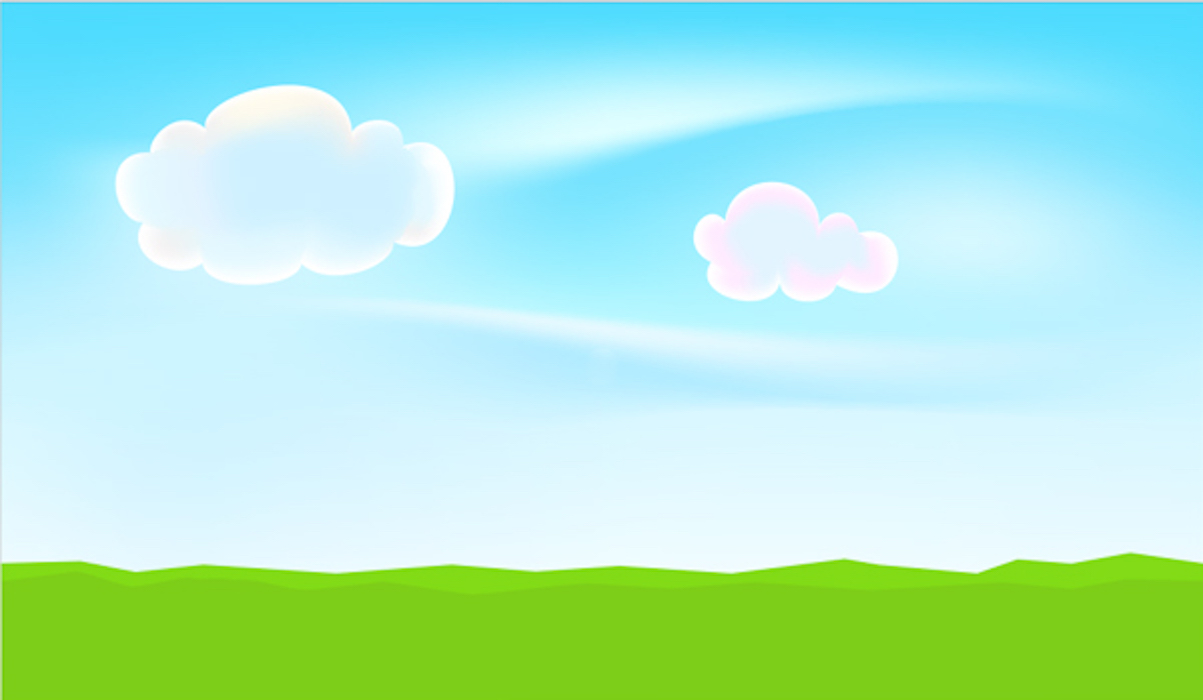
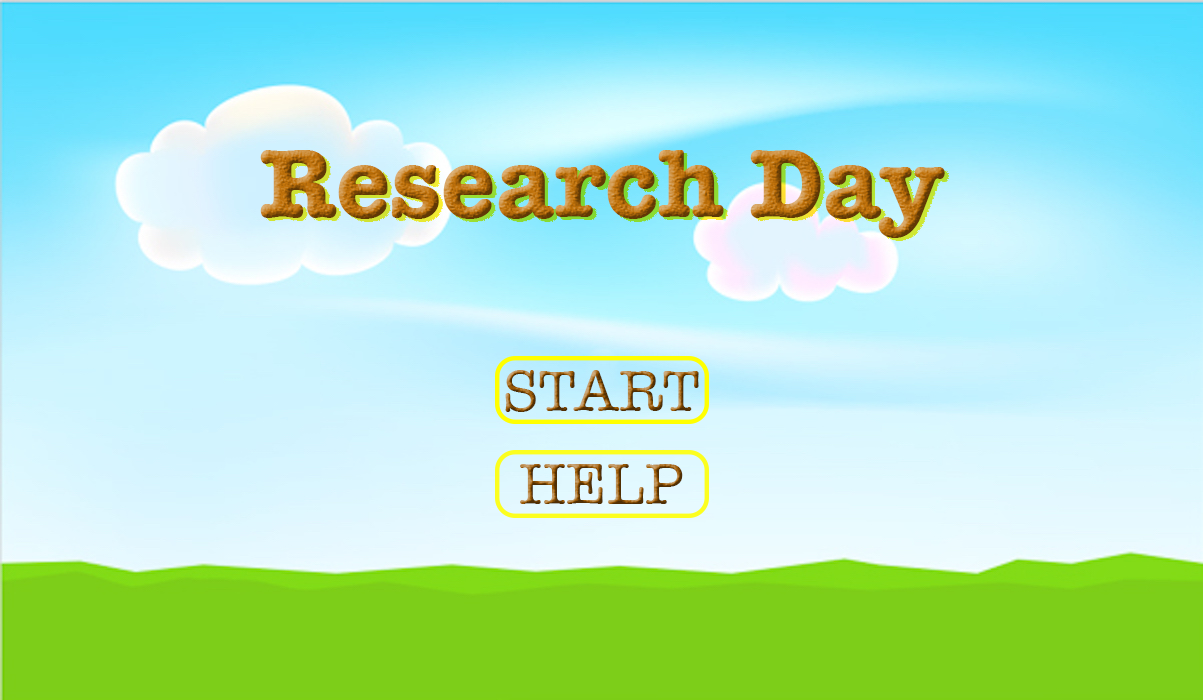
finish design menu and askforhelp page

Changed region(s): [[0.2153, 0.21, 0.7997, 0.36], [0.3998, 0.51, 0.6151, 0.75]]

diff --git a/project/src/cisc275_project/Model/GameModel.java b/project/src/cisc275_project/Model/GameModel.java
@@ -4,12 +4,13 @@ public class GameModel {
 	private Animals blueFishList;
 	private Animals blueCrabList;
 	private Animals summerFlounderList;
+	private Animals bassFishList;
 	private int score;
 	private int time;
 	private Net net;
 	private QuizList quiz;
 	private boolean quizable= true;
-	public enum STATE{MENU,GAME,QUIZ,EXPLAN,END}
+	public enum STATE{MENU,ASKHELP,GAME,QUIZ,EXPLAN,END}
 	private STATE state;
 
 	//Constructor
@@ -17,6 +18,7 @@ public class GameModel {
 		this.blueFishList = BlueFish.createBFList();
 		this.blueCrabList = BlueCrab.createBCList();
 		this.summerFlounderList = SummerFlounder.createSFList();
+		this.bassFishList = BassFish.createBFList();
 		this.net = Net.createNet();
 		this.quiz = QuizList.createQuizList();
 		this.score = 0;
@@ -30,9 +32,12 @@ public class GameModel {
 	public Animals getBlueCrabList() {
 		return blueCrabList;
 	}
-
 	public Animals getSummerFlounderList() {
 		return summerFlounderList;
+	}
+
+	public Animals getBassFishList() {
+		return bassFishList;
 	}
 
 	public int getScore() {
@@ -65,11 +70,17 @@ public class GameModel {
 		}
 
 		else if(getGameState() == STATE.MENU){
-			if(x<795 && x>495 && y<380 && y>280){
+			boolean startButton =x<705 && x>495 && y<425 && y>355;
+				if(startButton){
+				setState(STATE.ASKHELP);
+			}
+		}
+		else if(getGameState() == STATE.ASKHELP){
+			boolean ofCourseButton = x<600 && x>420 && y<550 && y>500;
+			if(ofCourseButton){
 				setState(STATE.GAME);
 			}
 		}
-
 		else if(getGameState() == STATE.QUIZ){
 			boolean option1 = (x>400 && x<500 && y > 450 && y<500);
 			boolean option2 = (x>700 && x<800 && y > 450 && y<500);
@@ -104,7 +115,8 @@ public class GameModel {
 	 */
 
 	public boolean hasCollision (){
-		return blueCrabList.hasCollision() || blueFishList.hasCollision()|| summerFlounderList.hasCollision();
+		return blueCrabList.hasCollision() || blueFishList.hasCollision()||
+				summerFlounderList.hasCollision()||bassFishList.hasCollision();
 	}
 
 	/**
@@ -142,6 +154,7 @@ public class GameModel {
 			blueFishList.update(net);
 			blueCrabList.update(net);
 			summerFlounderList.update(net);
+			bassFishList.update(net);
 			net.update();
 			timeUpdate();
 			scoreUpdate();

diff --git a/project/src/cisc275_project/View/AskHelpPanel.java b/project/src/cisc275_project/View/AskHelpPanel.java
@@ -1,12 +1,15 @@
 package project.src.cisc275_project.View;
 
+import project.src.cisc275_project.Model.GameModel;
+
 import javax.swing.*;
 import java.awt.*;
 
-public class MenuPanel extends JPanel {
-    public static Rectangle startButton = new Rectangle(495,355,210,70);
+public class AskHelpPanel extends JPanel {
+    public static Rectangle startButton = new Rectangle(420,500,180,50);
+    //static GameModel model = model;
 
-    public MenuPanel(){
+    public AskHelpPanel(){
         JPanel menuPanel = new JPanel();
         menuPanel.setBackground(Color.black);
         add(menuPanel);
@@ -14,11 +17,9 @@ public class MenuPanel extends JPanel {
 
     public void paint(Graphics g){
         Graphics2D g2d = (Graphics2D) g;
-        Font fnt = new Font("Garamond", Font.BOLD,60);
-        g2d.setFont(fnt);
         g2d.setColor(Color.black);
-        g2d.drawImage(ImageLoader.startBackground,0,0,this);
-        g2d.setColor(Color.white);
+        g2d.drawImage(ImageLoader.askBackground,0,0,this);
+        g2d.setColor(Color.RED);
         g2d.draw(startButton);
     }
 }

diff --git a/project/src/cisc275_project/Model/BassFish.java b/project/src/cisc275_project/Model/BassFish.java
@@ -1,0 +1,44 @@
+package project.src.cisc275_project.Model;
+
+/**
+ @author Chu Qiao
+ @author Mingkun Chen
+ @author Yihan Ye
+ */
+
+import java.util.ArrayList;
+import java.util.List;
+
+/**
+ * this is the class for blue fish
+ */
+public class BassFish extends Animal {
+    /**
+     * Constructor for blueFish
+     * @param xPos the x position of fish
+     * @param yPos the y position of fish
+     */
+    public BassFish(int xPos, int yPos) {
+        super("blue_fish", xPos, yPos, 2, 1, 200,400,0,900);
+    }
+    //create BlueFishList
+    /**
+     * Create an animal list with 3 blue fish
+     * @return Animal
+     */
+    public static Animals createBFList(){
+
+        BassFish bf1 = new BassFish(300,300);
+        BassFish bf2 = new BassFish(150,240);
+        BassFish bf3 = new BassFish(100,360);
+        BassFish bf4 = new BassFish(50,270);
+
+
+        List<Animal> bfList = new ArrayList<Animal>();
+        bfList.add(bf1);
+        bfList.add(bf2);
+        bfList.add(bf3);
+        bfList.add(bf4);
+        return new Animals("BlueFish",bfList);
+    }
+}

diff --git a/project/src/cisc275_project/View/ImageLoader.java b/project/src/cisc275_project/View/ImageLoader.java
@@ -8,8 +8,10 @@ import java.io.IOException;
 public class ImageLoader {
     static BufferedImage[] summerFlounder = createPicArray("summerFlounderLeft", "summerFlounderRight");
     static BufferedImage[] blueFish = createPicArray("blueFishLeft","blueFishRight");
+    static BufferedImage[] bassFish = createPicArray("bassFishLeft","bassFishRight");
     static BufferedImage[] blueCrab = createPicArray("blueCrab","blueCrab");
     static BufferedImage background = createImg("background");
+    static BufferedImage askBackground = createImg("askHelpBackground");
     static BufferedImage net = createImg("net");
     static BufferedImage boat = createImg("boat");
     static BufferedImage quizBackground = createImg("quizBackground");

diff --git a/project/src/cisc275_project/View/GameView.java b/project/src/cisc275_project/View/GameView.java
@@ -10,6 +10,7 @@ import javax.swing.*;
 public class GameView extends JFrame{
 	static GameModel model = new GameModel();
 	static MenuPanel menuPane = new MenuPanel();
+	static AskHelpPanel askHelpPanel = new AskHelpPanel();
 	static GamePanel gamePanel = new GamePanel();
 	static QuizPanel quizPanel = new QuizPanel();
 	static ExplanPanel explanPanel = new ExplanPanel();
@@ -48,6 +49,9 @@ public class GameView extends JFrame{
 		Graphics2D g2d = (Graphics2D) g;
 		if(model.getGameState() == GameModel.STATE.MENU){
 			menuPane.paint(g2d);
+		}
+		else if(model.getGameState() == GameModel.STATE.ASKHELP){
+			askHelpPanel.paint(g2d);
 		}
 		else if(model.getGameState() == GameModel.STATE.GAME){
 			gamePanel.paint(g2d);

diff --git a/project/src/cisc275_project/View/GamePanel.java b/project/src/cisc275_project/View/GamePanel.java
@@ -53,6 +53,7 @@ public class GamePanel extends JPanel {
         paintAnimals(g2d, model.getBlueFishList(), ImageLoader.blueFish);
         paintAnimals(g2d, model.getBlueCrabList(), ImageLoader.blueCrab);
         paintAnimals(g2d,model.getSummerFlounderList(),ImageLoader.summerFlounder);
+        paintAnimals(g2d,model.getBassFishList(),ImageLoader.bassFish);
         g2d.drawImage(ImageLoader.net, trans, this);
         g2d.drawImage(ImageLoader.boat,430,70,this);
         g2d.drawString("TIME:"+model.getTime(),1000,100);
